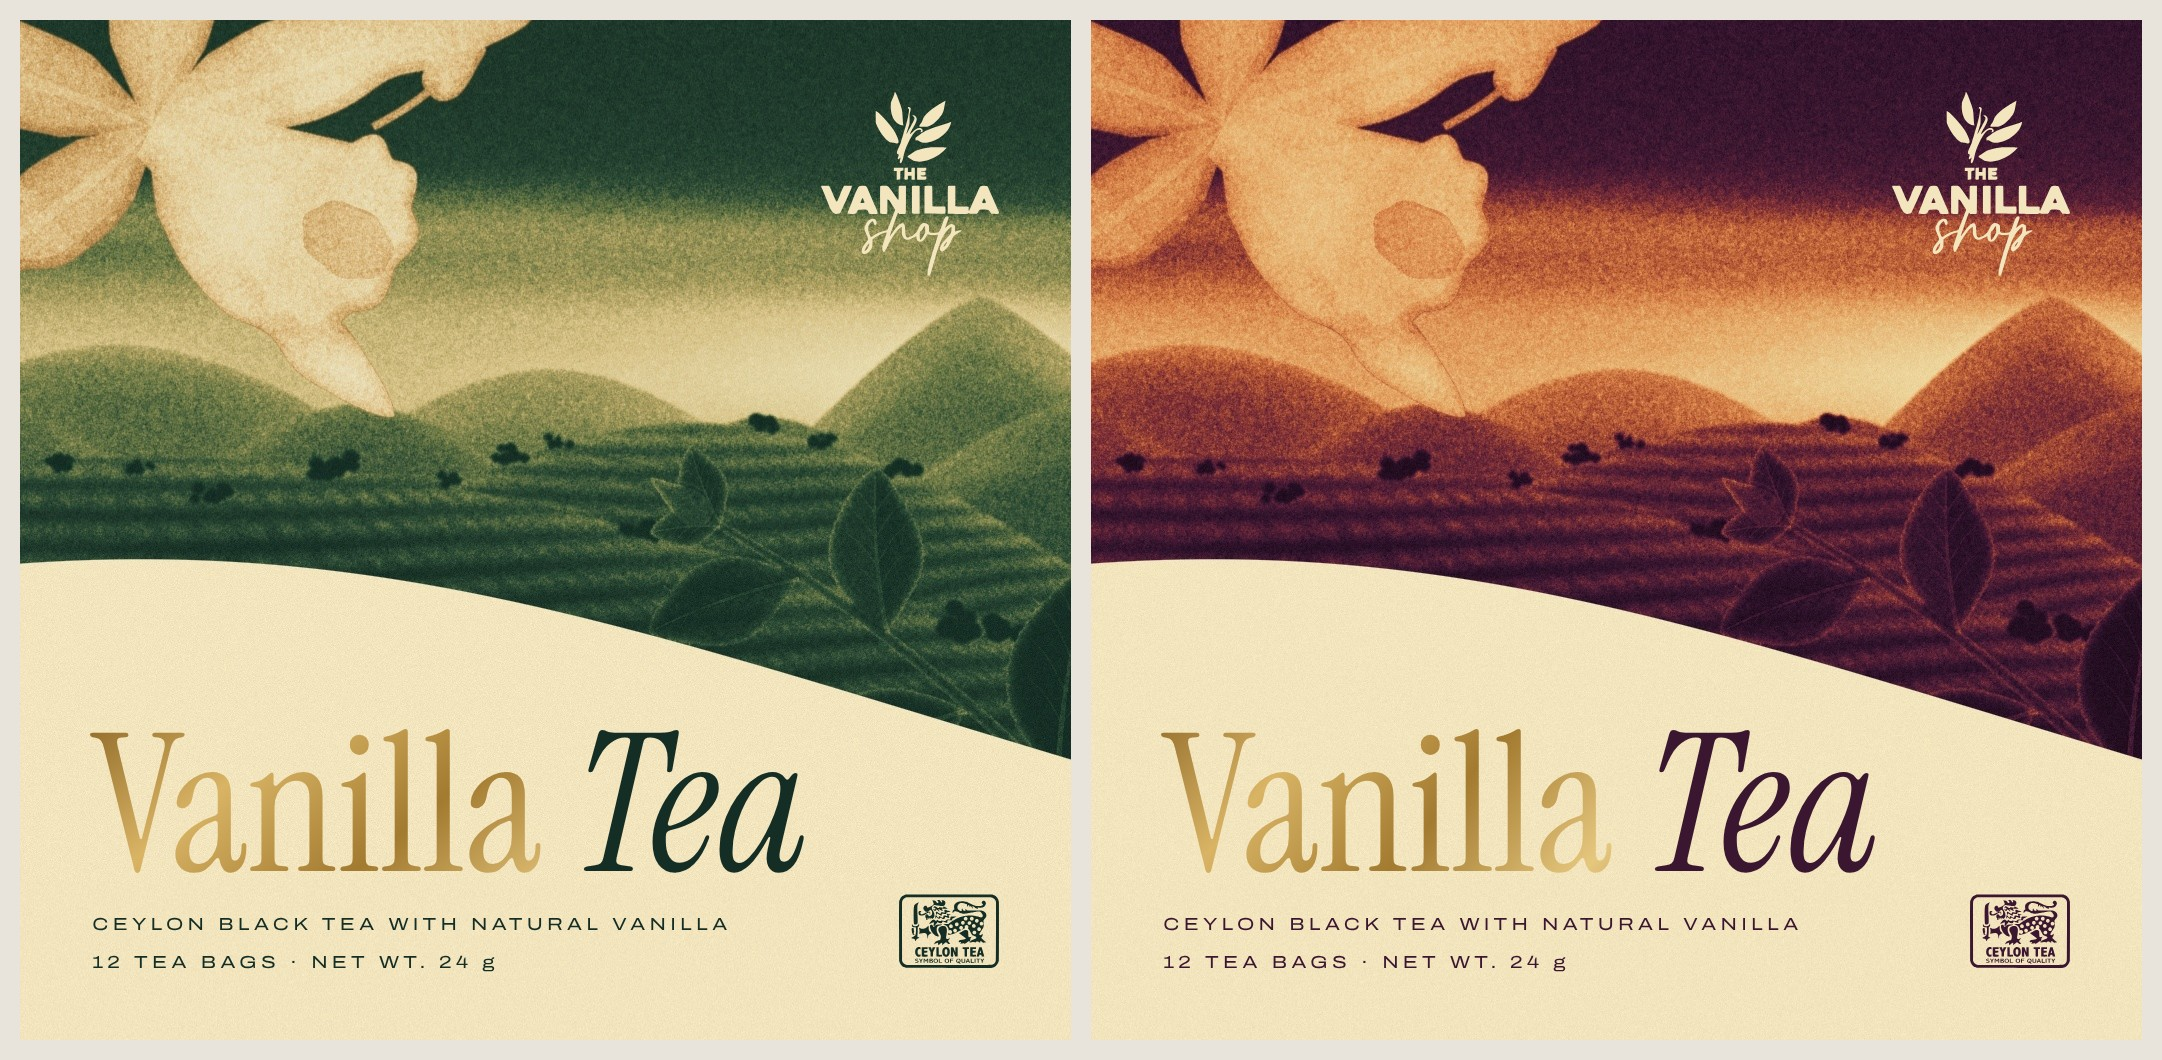
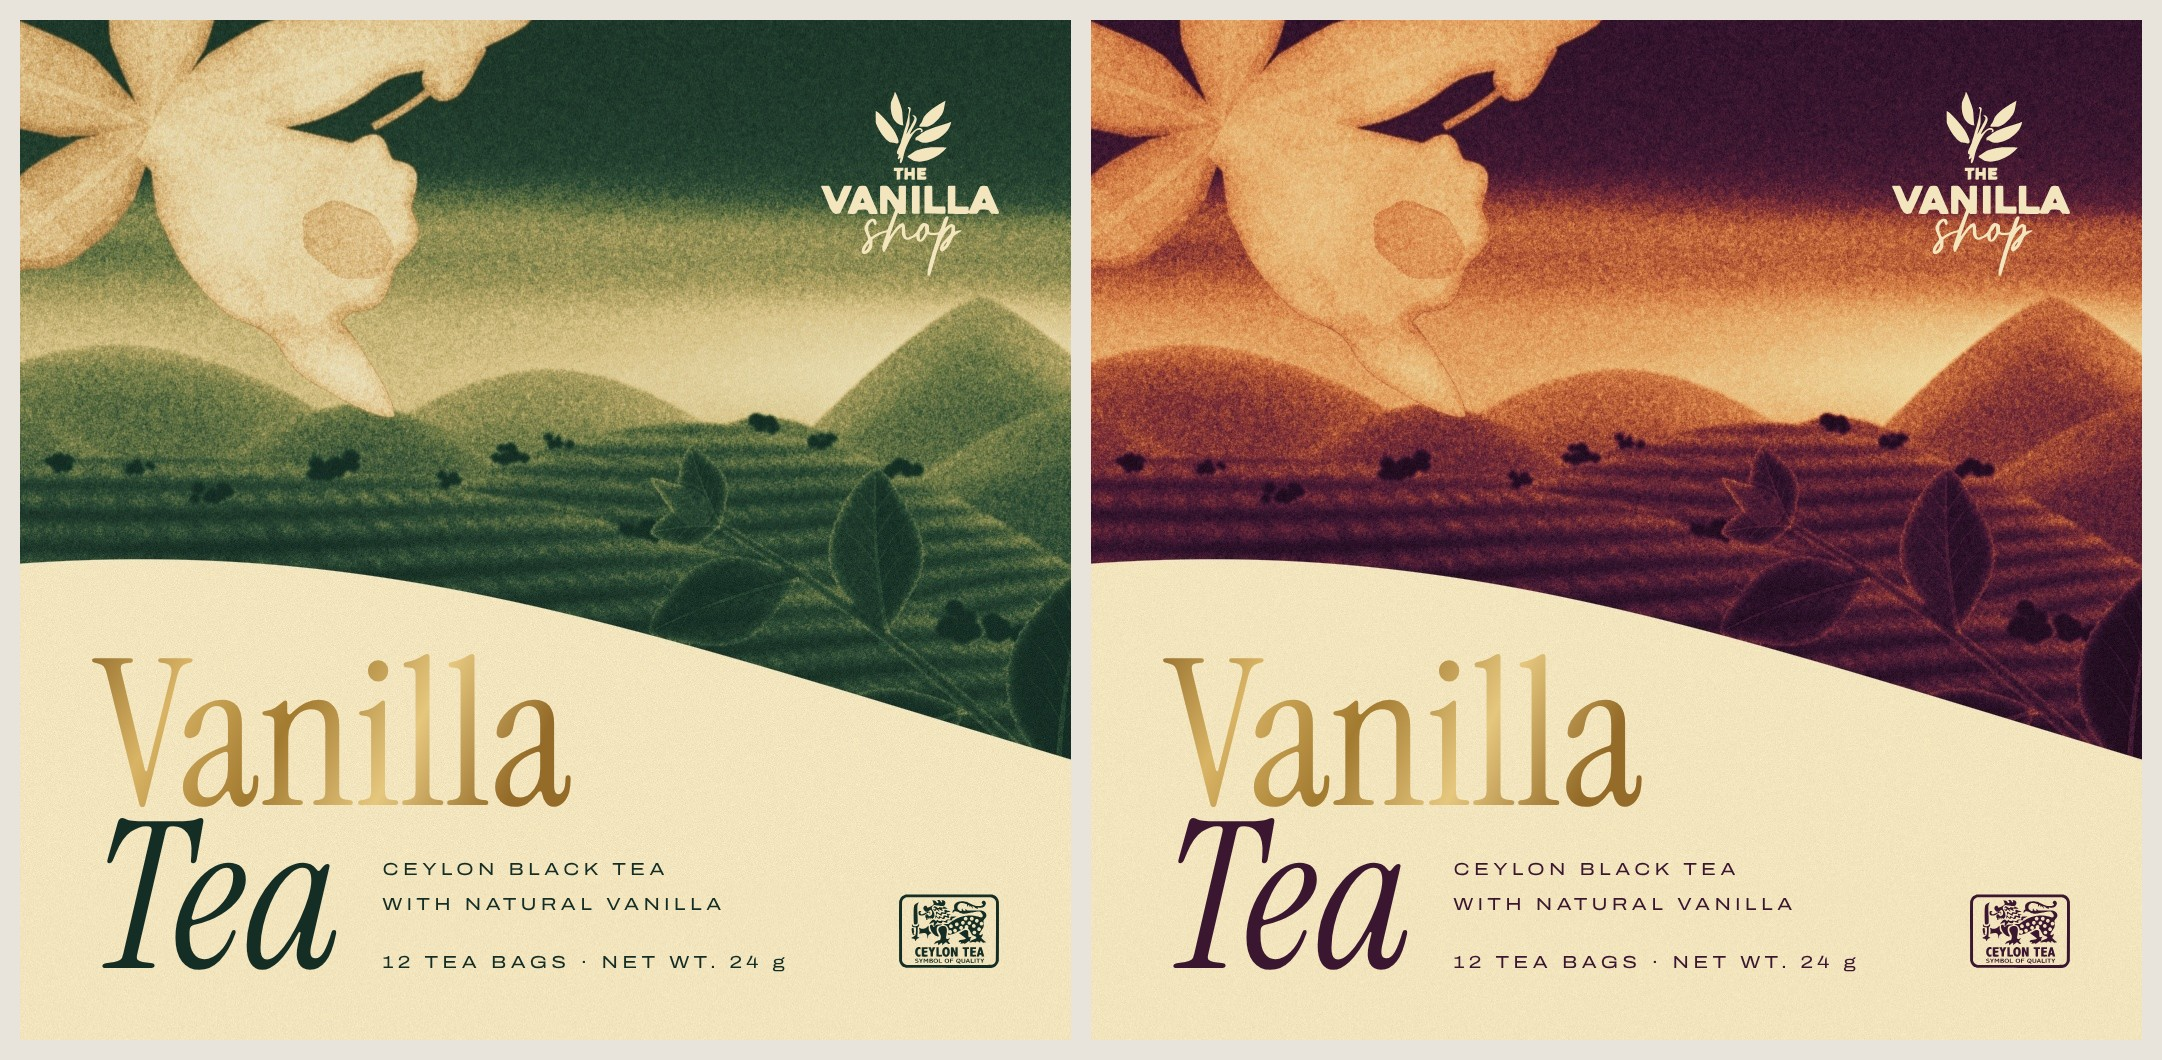
Tea: stack Vanilla over Tea; the facts in a column beside Tea
Vanilla (gold) over Tea (green italic) at 17 mm, Tea on the 6 mm bottom
baseline, clear of the curve. The description as a tight pair beside Tea,
its first capitals level with Tea's x-height; the contents line on the
shared baseline with the lion.

Claude-Session: https://claude.ai/code/session_01Psd6wLDi15Gf4F1fXEFmxS

Changed region(s): [[0.5268, 0.6226, 0.8677, 0.934], [0.031, 0.6226, 0.3719, 0.934]]

diff --git a/vanilla-shop/studies/tea/bandsystem/estate_front.py b/vanilla-shop/studies/tea/bandsystem/estate_front.py
@@ -42,10 +42,14 @@ def overlay(x=8,top=False):
     lw=15.0; s_=lw/933; ink=lambda v:v*s_                                                       # logo ink: 6..927.6 x 6.3..957.9 of 933 x 963
     lg=f'<g transform="translate({FW-M-ink(927.6)+ink(0):.3f} {M-ink(6.3):.3f})">{logo(lw/2,963*s_/2,lw,CREAM)}</g>'
     ln=8.4; sl=ln/1211; lnx=FW-M-1206*sl; lny=base-890*sl                                          # lion ink: 6..1206 x 6..890 of 1211 x 895
+    # the name stacked: Vanilla over Tea, Tea on the bottom baseline; the facts in a small column beside Tea, its last
+    # line on the same baseline and its first line's capitals level with Tea's x-height (Instrument Serif metrics)
+    sz=17; vb=base-0.8*sz; cx_=x+20.7+3.5; xh=base-0.516*sz; first=xh+0.71*1.45; ld=2.9                                     # description as a tight pair; contents apart, on the baseline
     return [f'<defs>{LEAF}</defs>', lg,
-            f'<text x="{x+0.12}" y="{base-8.1:.2f}" font-size="16"><tspan font-family="ISR" fill="url(#leaf)">Vanilla</tspan><tspan font-family="IS" fill="{GREEN}"> Tea</tspan></text>',
-            T('CEYLON BLACK TEA WITH NATURAL VANILLA',x,base-3.2,1.45,GREEN,'RW',tr=0.24),
-            T('12 TEA BAGS  ·  NET WT. 24 g',x,base,1.45,GREEN,'RW',tr=0.24),
+            T('Vanilla',x+0.018*sz,vb,sz,'url(#leaf)','ISR'), T('Tea',x,base,sz,GREEN,'IS'),
+            T('CEYLON BLACK TEA',cx_,first,1.45,GREEN,'RW',tr=0.24),
+            T('WITH NATURAL VANILLA',cx_,first+ld,1.45,GREEN,'RW',tr=0.24),
+            T('12 TEA BAGS  ·  NET WT. 24 g',cx_,base,1.45,GREEN,'RW',tr=0.24),
             lion(lnx,lny,ln,GREEN)]
 if __name__=='__main__':
     import os; os.environ['NOSHOOT']='1'; import garden as G
